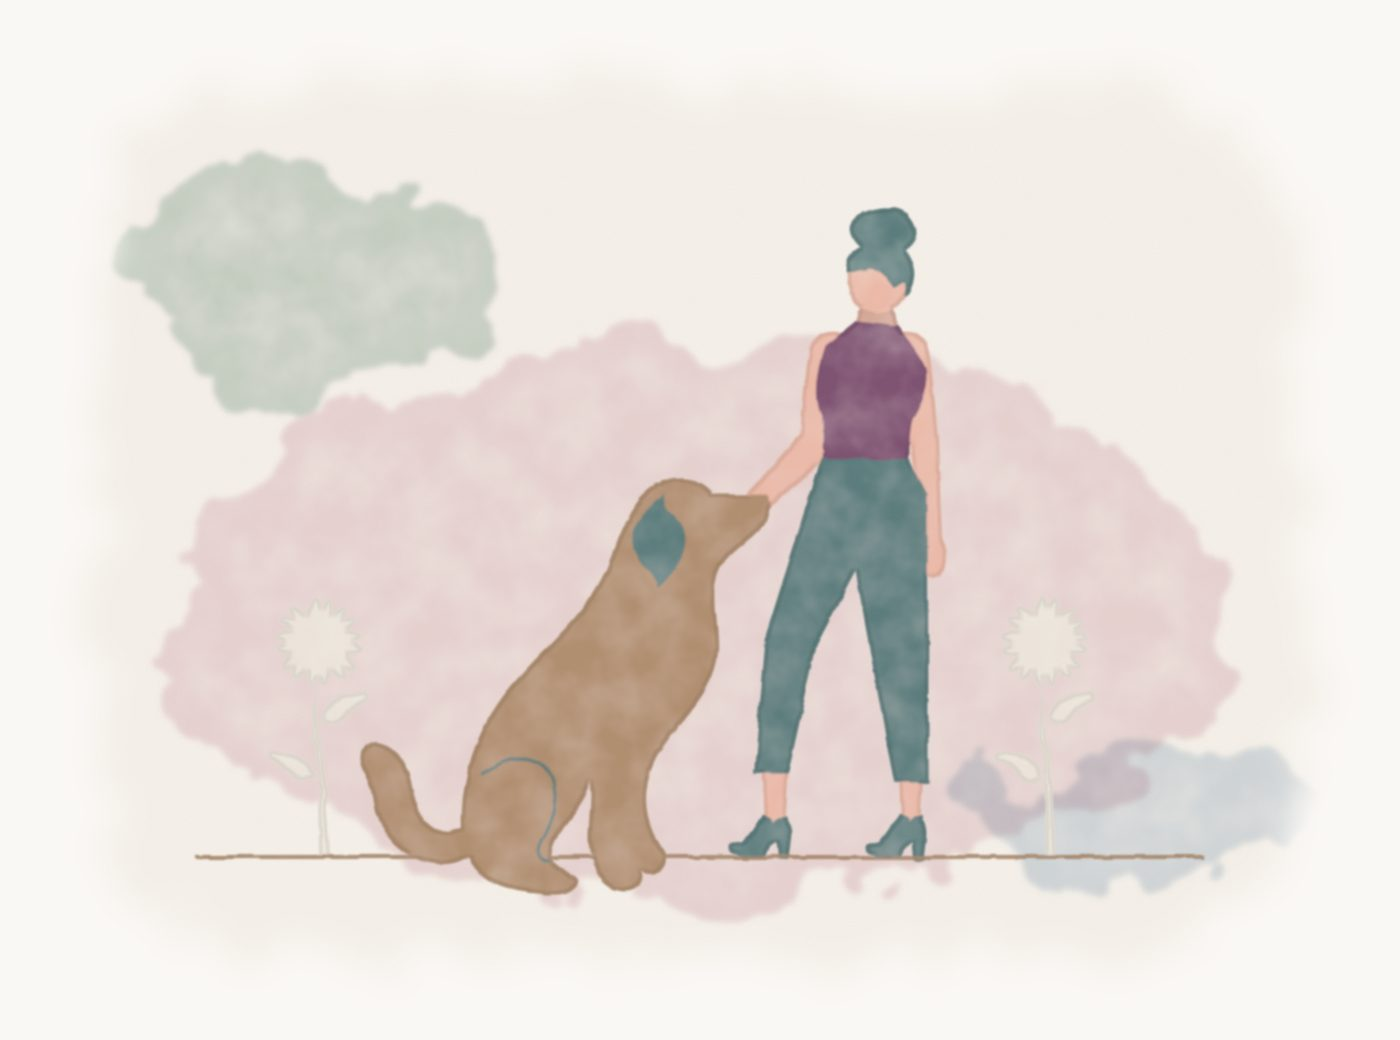
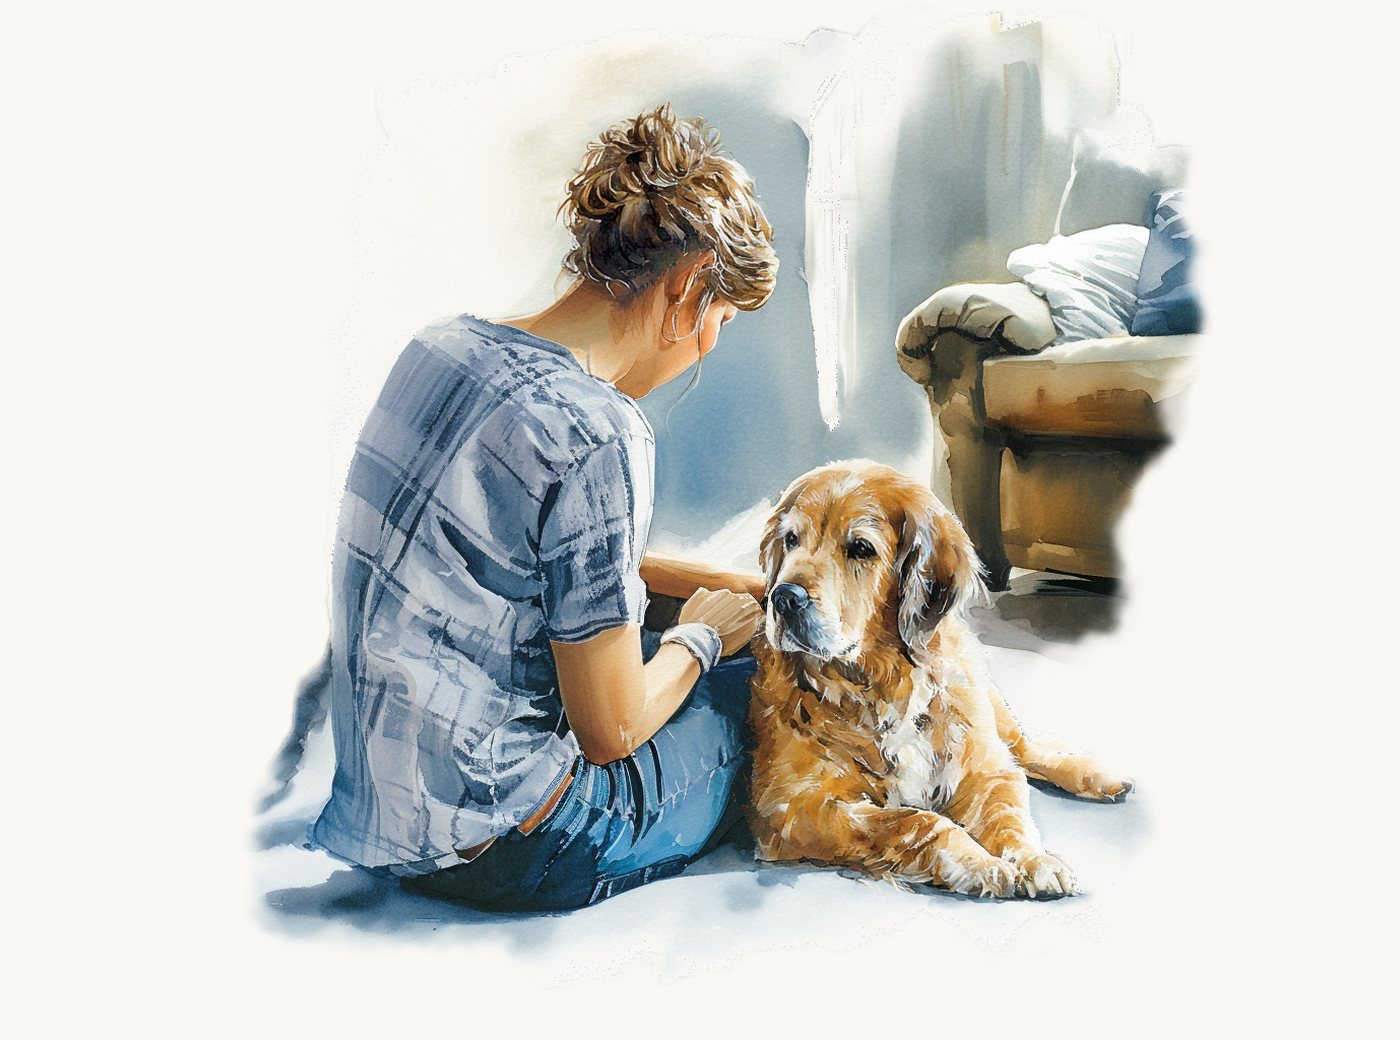
Use CodaPet brand watercolors from the QOL Meta ads
Replaces the generated stand-in art with the brand watercolor
illustrations from the QOL Meta ad creatives: a woman cuddling her dog
(welcome), a woman with her senior golden retriever (lesson 1), and a
woman with a checklist and her cat (lesson 2). Their black backgrounds
are removed so the edges wash into the page color.

Claude-Session: https://claude.ai/code/session_01HYPRh75BDT3z3FWmrBrvsY

diff --git a/src/components/Funnel.tsx b/src/components/Funnel.tsx
@@ -278,7 +278,7 @@ export default function Funnel() {
               className="h-[330px] bg-page bg-cover bg-no-repeat"
               style={{ backgroundImage: `url('${ASSETS.welcome}')`, backgroundPosition: "center" }}
               role="img"
-              aria-label="Illustration of a woman kneeling to greet her dog"
+              aria-label="Watercolor of a woman cuddling her dog on the couch"
             />
             <div className="flex flex-col gap-3 px-6 pt-[26px]">
               <Eyebrow>Free · 2 minutes</Eyebrow>
@@ -341,7 +341,7 @@ export default function Funnel() {
                 className="h-[260px] bg-page bg-cover bg-center bg-no-repeat"
                 style={{ backgroundImage: `url('${l.image}')` }}
                 role="img"
-                aria-label={step === "info1" ? "Illustration of a woman with her dog" : "Illustration of two veterinarians"}
+                aria-label={step === "info1" ? "Watercolor of a woman sitting with her senior golden retriever" : "Watercolor of a woman reading a checklist with her cat on her shoulder"}
               />
               <div className="flex flex-col gap-2.5 px-1">
                 <Eyebrow>{l.kicker}</Eyebrow>

diff --git a/src/lib/funnel.ts b/src/lib/funnel.ts
@@ -43,9 +43,9 @@ export const QOL_URL =
 
 export const CONSENT_TEXT = "Private. No calls, no spam. Unsubscribe anytime.";
 
-// Watercolor illustrations in public/images, painted in the brand guide's palette
-// (forest, mauve, slate, sage, rose) with washed edges that fade into the page.
-// Regenerate with scripts/watercolor. The logo still loads from codapet.com.
+// CodaPet's brand watercolor illustrations (from the QOL Meta ad creatives),
+// self-hosted in public/images with their edges washed into the page color.
+// The logo still loads from codapet.com.
 export const ASSETS = {
   wordmark: "https://www.codapet.com/images/codapet-new-logo-wordmark.svg",
   icon: "https://www.codapet.com/images/codapet-icon.svg",

diff --git a/README.md b/README.md
@@ -90,10 +90,11 @@ nightly cron retries it.
 
 ## Assets
 
-The welcome and lesson images are watercolor illustrations in `public/images/`, painted in the palette
-and "washed edge" style from CodaPet's 2025 brand guide (see `scripts/watercolor/README.md`). Replace
-the three JPGs with brand-team watercolor art whenever it's ready; keep the same aspect ratios. The small
-CodaPet icon in the top bar still loads from codapet.com (`npm run fetch-assets` downloads it).
+The welcome and lesson images in `public/images/` are CodaPet's brand watercolor illustrations, taken from
+the QOL Meta ad creatives, with their dark backgrounds removed so the edges wash into the page color (the
+brand guide's "floating image with a washed edge"). Replace the three JPGs to change them; keep the aspect
+ratios (1560x1320 for the welcome hero, 1400x1040 for the lessons). The small CodaPet icon in the top bar
+still loads from codapet.com (`npm run fetch-assets` downloads it).
 
 ## Before launch
 
